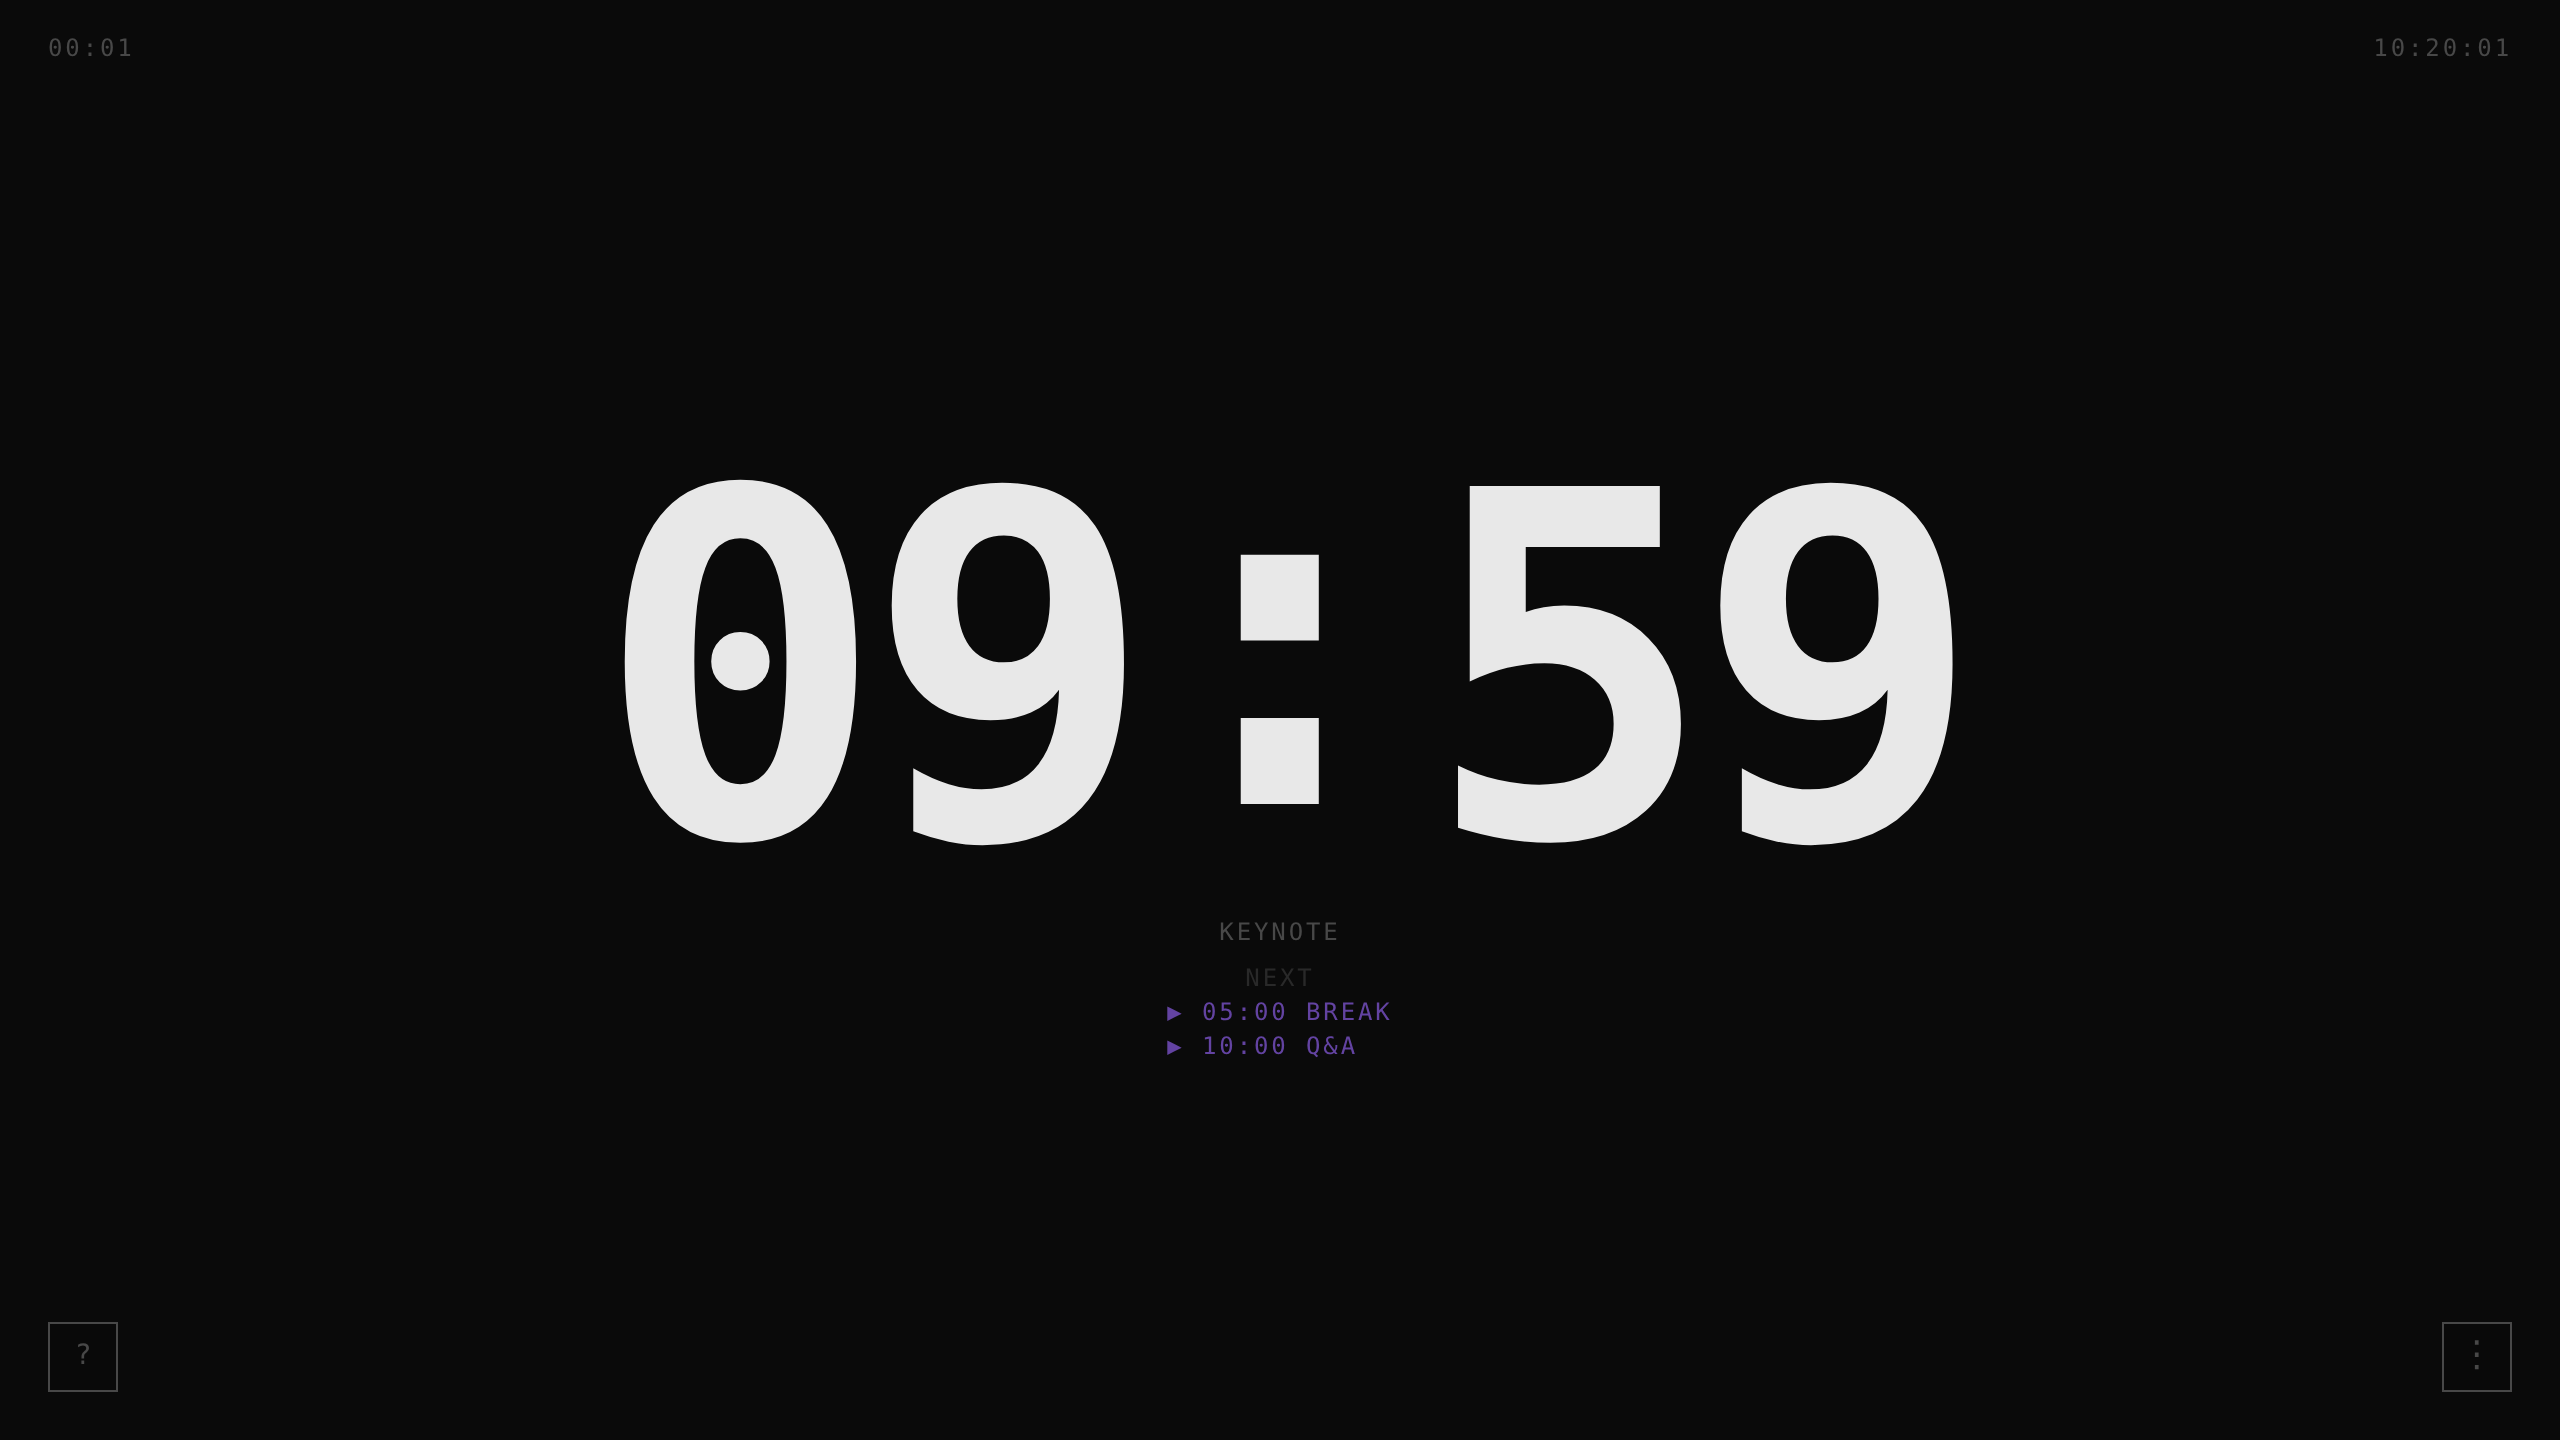
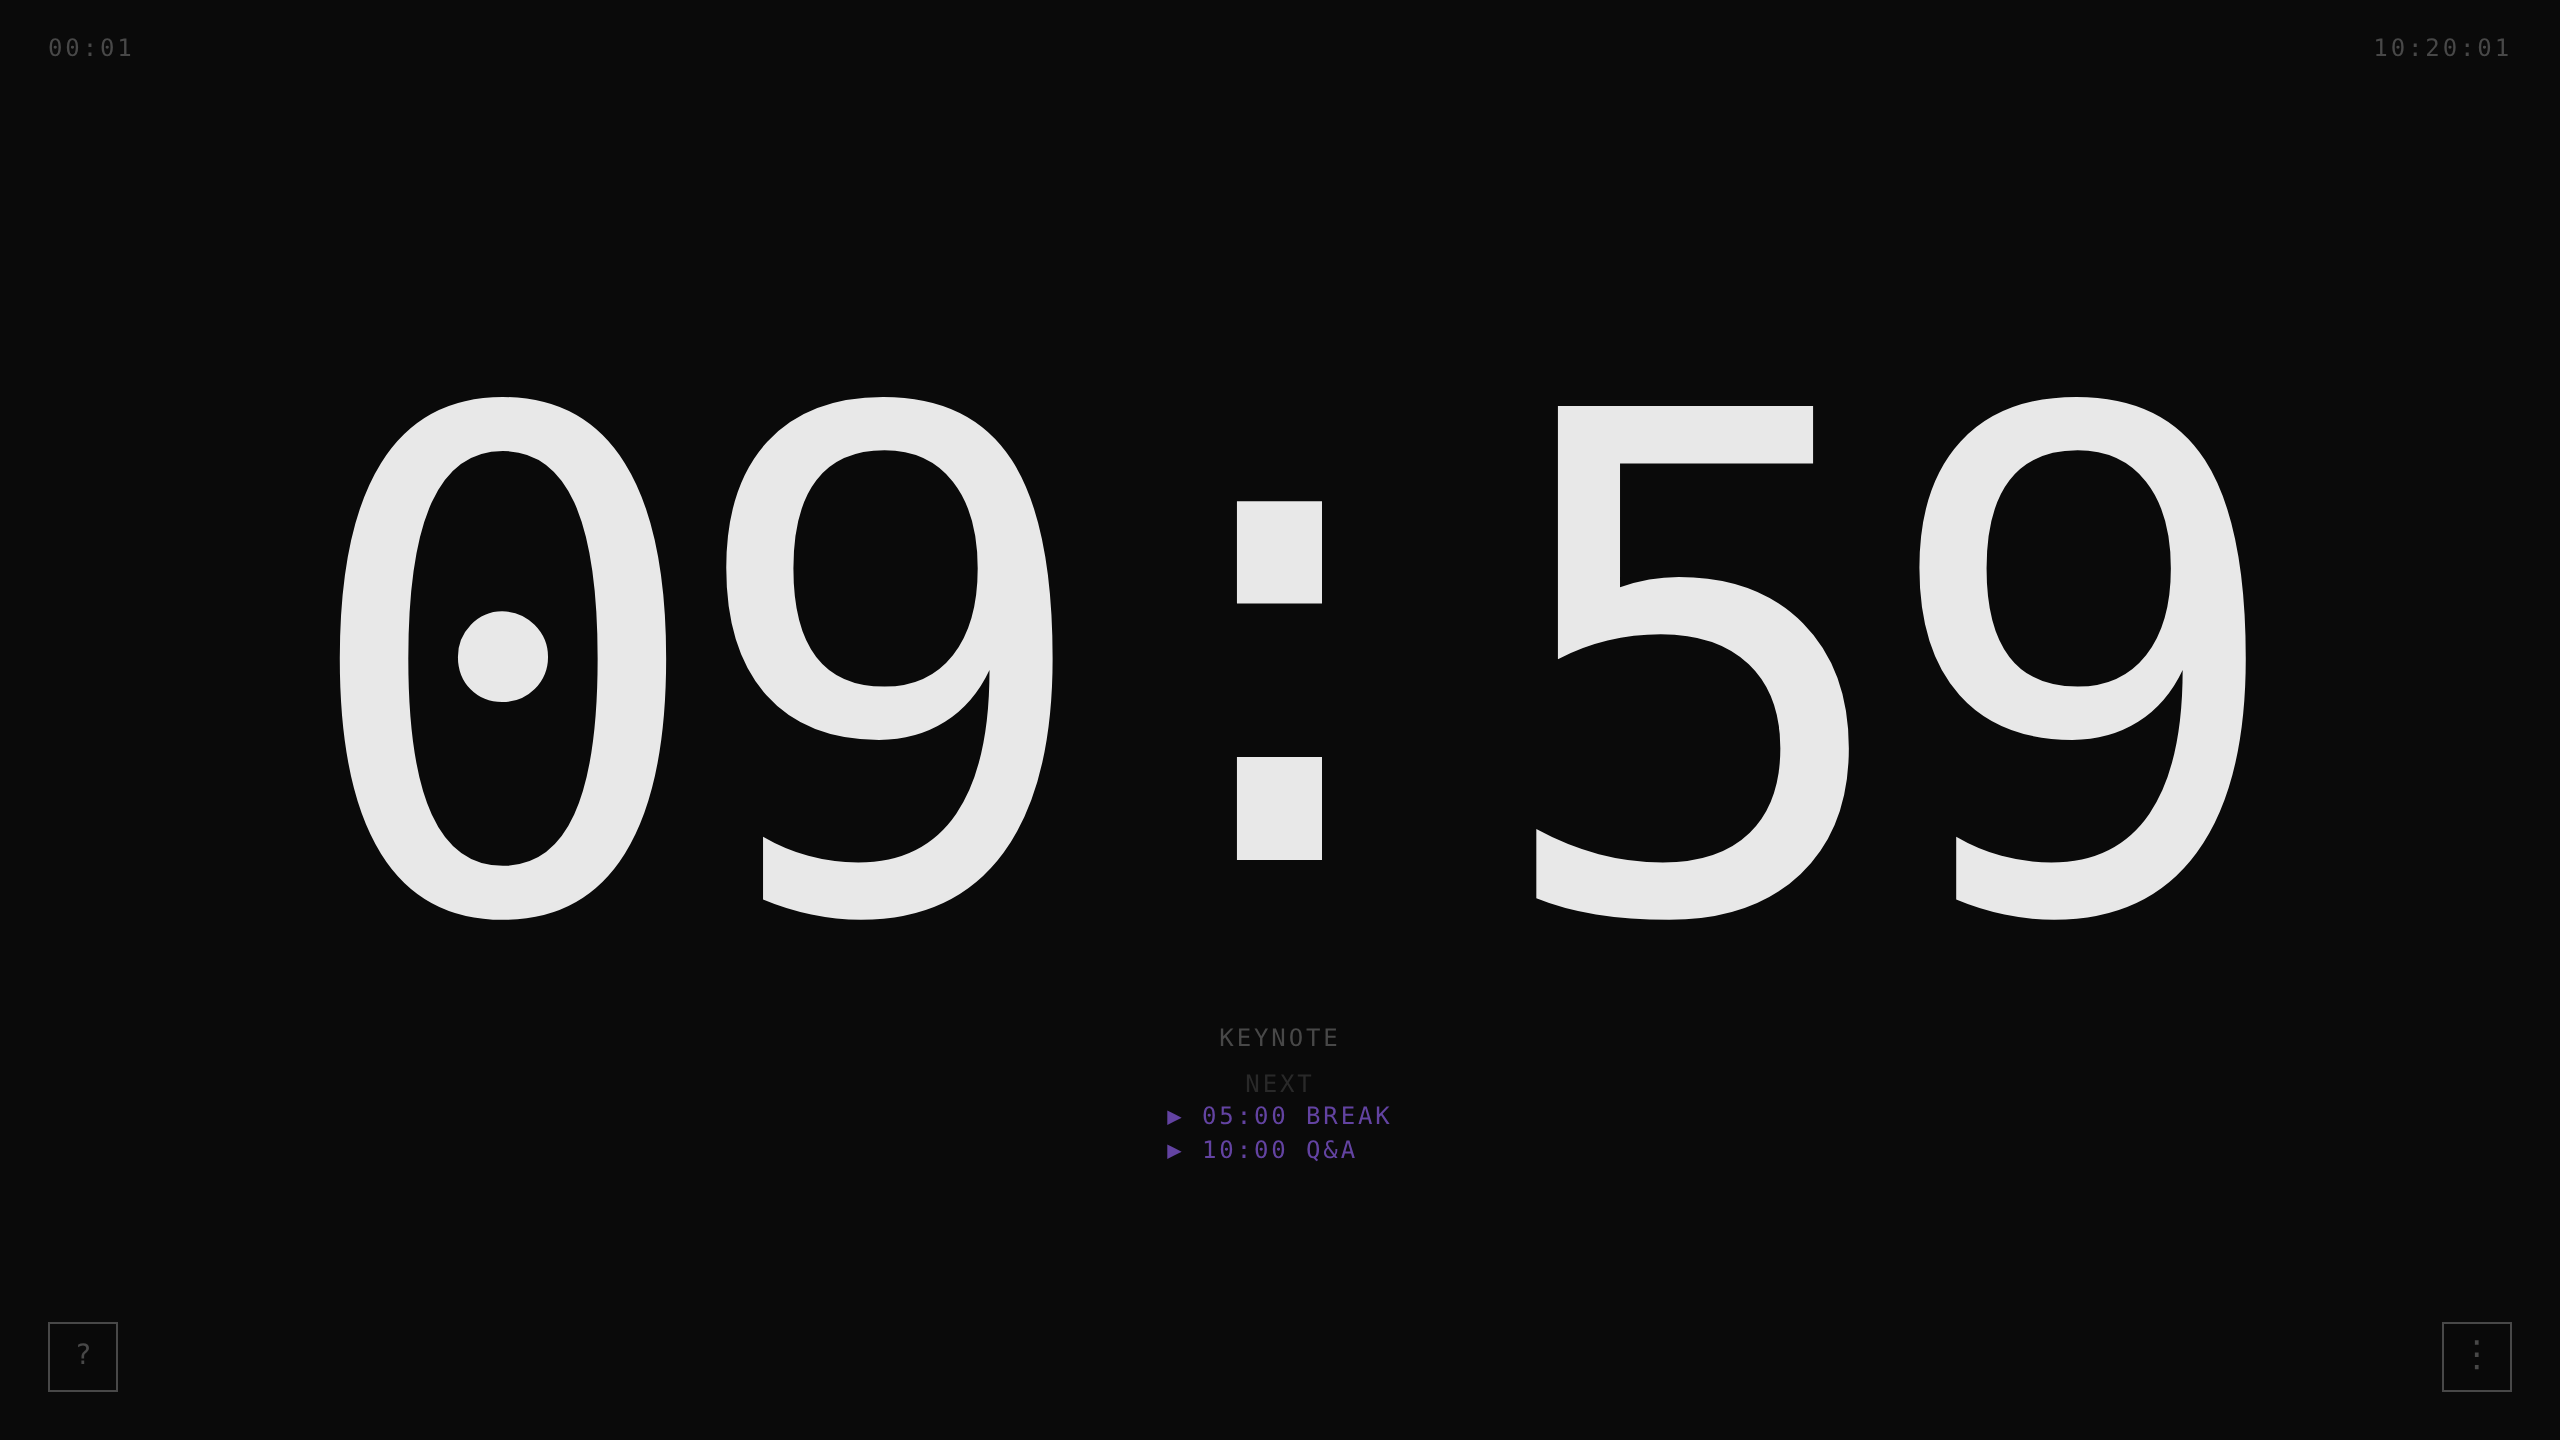
Larger, regular-weight counter that fits any screen; manual title aligned
The counter is 1.5x the old size (up to 360px) and regular weight rather
than black. Its size is the smaller of a width share and 48vh, so it stays
inside short landscape screens with room for the label and queue, and it
never wraps. Hours make the line about a fifth wider, so with hours shown
(":has(.disp-h)", Baseline widely available) it takes a smaller width
share; without :has() it keeps the larger size on one line.

The manual's title bar is sticky inside the manual instead of fixed to the
window, and its title sits on the same 620px column as the text, so their
left edges line up (a fixed bar was off by half the scrollbar). The bar is
now nearly opaque, since text scrolls underneath it.

Screenshots retaken (same setup, 09:59).

Verified: pnpm test (gates + 55 tests). New layout tests check the counter
stays on screen and on one line at 1280x720, 390x844, 320x568, 844x390 and
1024x600, for 25:00 with a queue and for 999 minutes (16H 39:00); the
weight and title-alignment tests fail against the previous tick.html.
Also measured at 1920x1080 and 768x1024, and looked at on an iPhone 13
emulation in Chromium.

Claude-Session: https://claude.ai/code/session_01C5ZAm2zn8MWES7A5tkf3AA

diff --git a/tick.html b/tick.html
@@ -77,7 +77,10 @@ html,body{
 #timer-display.s-watch ~ #session-label{color:var(--c-watch)}
 
 #timer-display{
-  font-size:clamp(80px,19vw,240px);font-weight:900;letter-spacing:-0.04em;
+  /* 1.5x the old clamp(80px,19vw,240px), in regular weight. The vh term
+     keeps it inside a short screen (a landscape phone, a 16:9 stream) with
+     room for the label and queue; vw keeps hours mode inside a portrait one. */
+  font-size:clamp(48px,min(28.5vw,48vh),360px);font-weight:400;letter-spacing:-0.04em;white-space:nowrap;
   line-height:1;color:var(--c-run);transition:color 0.3s;font-variant-numeric:tabular-nums;
 }
 #timer-display .colon{display:inline-block;position:relative;top:-0.07em;letter-spacing:0}
@@ -87,6 +90,10 @@ html,body{
   line-height:1;margin-right:0.15em;letter-spacing:0;
 }
 #timer-display .disp-h-suf{font-size:0.72em;letter-spacing:0}
+/* Hours make the line about a fifth wider ("16H 39:00"), so it gets a
+   smaller vw share to stay on screen in portrait. Without :has() support it
+   keeps the larger size, and nowrap keeps it on one line. */
+#timer-display:has(.disp-h){font-size:clamp(40px,min(23vw,48vh),360px)}
 #timer-display .disp-ms{display:inline-block;vertical-align:top;line-height:1}
 /* Watch-mode colon blink via class toggle instead of per-frame style writes */
 #timer-display.colon-off .colon{color:transparent}
@@ -306,12 +313,16 @@ input[type=time].modal-input::-webkit-calendar-picker-indicator{filter:invert(0.
 body.light #manual{background:rgba(170,165,158,0.92)}
 #manual.open{display:block}
 
+/* Sticky inside #manual rather than fixed to the window, so it is centred in
+   the same box as #manual-inner (a fixed bar ignored the scrollbar's width)
+   and the title starts on the text's left edge. */
 #manual-h1-fixed{
-  position:fixed;top:0;left:0;right:0;height:3rem;z-index:415;display:flex;align-items:center;
-  padding:0 1.5rem;pointer-events:none;border-bottom:1px solid var(--dim);background:rgba(0,0,0,0.82);
+  position:sticky;top:0;height:3rem;z-index:415;display:flex;align-items:center;
+  margin:0 -1rem;padding:0 1rem;pointer-events:none;border-bottom:1px solid var(--dim);background:rgba(0,0,0,0.96);
 }
-body.light #manual-h1-fixed{background:rgba(150,145,138,0.92)}
-#manual-h1-fixed h1{font-size:1.1em;letter-spacing:0.3em;text-transform:uppercase;color:var(--fg);margin:0}
+#manual-h1-fixed h1{width:100%;max-width:620px;margin:0 auto}
+body.light #manual-h1-fixed{background:rgba(150,145,138,0.98)}
+#manual-h1-fixed h1{font-size:1.1em;letter-spacing:0.3em;text-transform:uppercase;color:var(--fg)}
 
 #manual-close{
   position:fixed;top:0;right:1.5rem;height:3rem;display:flex;align-items:center;
@@ -321,7 +332,7 @@ body.light #manual-h1-fixed{background:rgba(150,145,138,0.92)}
 }
 #manual-close:hover{opacity:0.7}
 
-#manual-inner{max-width:620px;width:100%;margin:0 auto;padding-top:4rem;font-size:13px;line-height:1.78;user-select:text;-webkit-user-select:text}
+#manual-inner{max-width:620px;width:100%;margin:0 auto;padding-top:1rem;font-size:13px;line-height:1.78;user-select:text;-webkit-user-select:text}
 #manual-inner h2{font-size:0.78em;letter-spacing:0.28em;text-transform:uppercase;color:var(--fg);margin-top:1.6rem;margin-bottom:0.5rem;padding-bottom:0.3rem;border-bottom:1px solid rgba(255,255,255,0.2)}
 #manual-inner ul{padding-left:1.35rem;margin-bottom:0.5rem}
 #manual-inner li{margin-bottom:0.3rem}

diff --git a/tests/layout.spec.ts b/tests/layout.spec.ts
@@ -1,0 +1,49 @@
+import { test, expect, open } from './fixtures';
+
+// The counter is sized by both width and height, so it should never leave
+// the screen: not on a portrait phone, not on a short landscape one, and not
+// with hours, the widest thing it draws ("16H 39:00").
+const screens = [
+	[1280, 720],
+	[390, 844],
+	[320, 568],
+	[844, 390],
+	[1024, 600]
+] as const;
+
+for (const [width, height] of screens) {
+	test(`the counter fits on one line on a ${width}×${height} screen`, async ({ page }) => {
+		await page.setViewportSize({ width, height });
+		for (const query of ['?mins=25&label=Keynote&next=Break:5,QA:10', '?mins=999']) {
+			await open(page, query);
+			const box = await page.evaluate(() => {
+				const d = document.getElementById('timer-display')!;
+				const r = document.createRange();
+				r.selectNodeContents(d);
+				const t = r.getBoundingClientRect();
+				return { left: t.left, right: t.right, top: t.top, bottom: t.bottom, lines: r.getClientRects().length, line: parseFloat(getComputedStyle(d).fontSize) };
+			});
+			expect(box.left, query).toBeGreaterThanOrEqual(0);
+			expect(box.right, query).toBeLessThanOrEqual(width);
+			expect(box.top, query).toBeGreaterThanOrEqual(0);
+			expect(box.bottom, query).toBeLessThanOrEqual(height);
+			expect(box.bottom - box.top, `${query} wrapped`).toBeLessThan(box.line * 1.5);
+		}
+	});
+}
+
+test('the counter is regular weight', async ({ page }) => {
+	await open(page);
+	await expect(page.locator('#timer-display')).toHaveCSS('font-weight', '400');
+});
+
+test("the manual's title starts on the text's left edge", async ({ page }) => {
+	await open(page);
+	await page.keyboard.press('Home');
+	const [title, text] = await page.evaluate(() => {
+		const r = document.createRange();
+		r.selectNodeContents(document.querySelector('#manual-h1-fixed h1')!);
+		return [r.getBoundingClientRect().left, document.querySelector('#manual-inner p')!.getBoundingClientRect().left];
+	});
+	expect(Math.abs(title - text)).toBeLessThan(1);
+});
